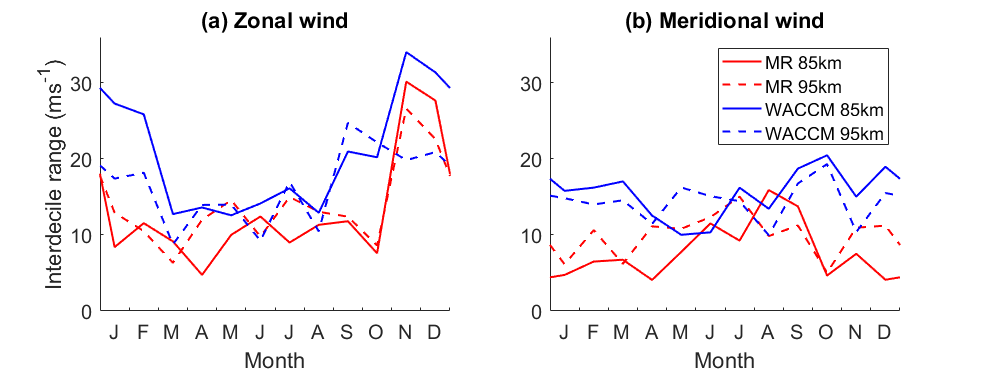
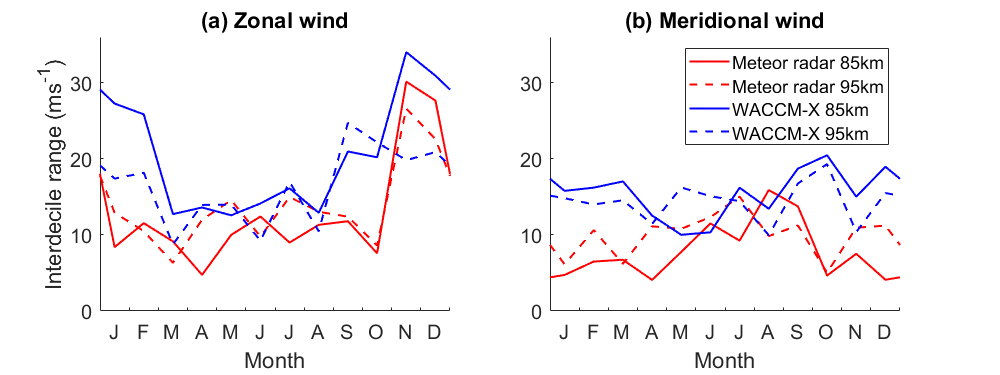
Add files via upload

diff --git a/Figure5/Figure5.m b/Figure5/Figure5.m
@@ -14,6 +14,12 @@ rows = 1; cols = 2;
 
 subplot = @(rows,cols,p) subtightplot (rows,cols,p,[vert_gap horz_gap],[lower_marg upper_marg],[left_marg right_marg]);
 
+% Load data
+MR = load('C:\Users\pn399\OneDrive - University of Bath\Paper1\Figure code\MRProcessing\AllMR.mat');
+walt = mean(MR.AllYears.MonthlyWalt,2,'omitnan');
+WACCM = load('C:\Users\pn399\OneDrive - University of Bath\Paper1\Figure code\WACCMProcessing\Data\AllWACCMRothera.mat');
+height = WACCM.All.Data.gph_MRHeights;
+
 % Loop over direction, height and type
 for direction = 1:2 % 1 is U, 2 is V
     subplot(1,2,direction);
@@ -30,14 +36,13 @@ for direction = 1:2 % 1 is U, 2 is V
 
             switch type
                 case 1 
-                    MR = load('C:\Users\pn399\OneDrive - University of Bath\MATLAB\MeteorRadar\rothera-sk\matlab\hwd\AllYears.mat');
                     old_heights = MR.AllYears.MonthlyWalt;
                     switch direction
                         case 1; wind = MR.AllYears.MonthlyMedU;
                         case 2; wind = MR.AllYears.MonthlyMedV;
                     end            
             
-                case 2; WACCM = load('C:\Users\pn399\OneDrive - University of Bath\MATLAB\ChihokoModel\Processed Data\AllModelRotheraBoxHeight.mat','All');
+                case 2; 
                     old_heights = repmat(WACCM.All.Data.MRHeights, [1,156]);
                     switch direction
                         case 1; wind = WACCM.All.Data.MonthlyMedU(:,12*25+1:end);
@@ -45,9 +50,6 @@ for direction = 1:2 % 1 is U, 2 is V
                     end            
             end
 
-
-
-            
             new_heights = 75:105;
             new_wind = zeros(size(new_heights,2),size(wind,2));
 
@@ -74,8 +76,6 @@ for direction = 1:2 % 1 is U, 2 is V
             interdecile_range = [interdecile_range, interdecile_range, interdecile_range];
             
 
-
-            
             switch type
                 case 1; lineColor = 'r';
                 case 2; lineColor = 'b';
@@ -97,7 +97,7 @@ for direction = 1:2 % 1 is U, 2 is V
     end
     switch direction
         case 1; ylabel('Interdecile range (ms^{-1})');
-        case 2; legend({'MR 85km','MR 95km','WACCM 85km','WACCM 95km'},'Location','northeast','NumColumns',1);
+        case 2; legend({'Meteor radar 85km','Meteor radar 95km','WACCM-X 85km','WACCM-X 95km'},'Location','northeast','NumColumns',1);
     end
     xlabel('Month');
 end
